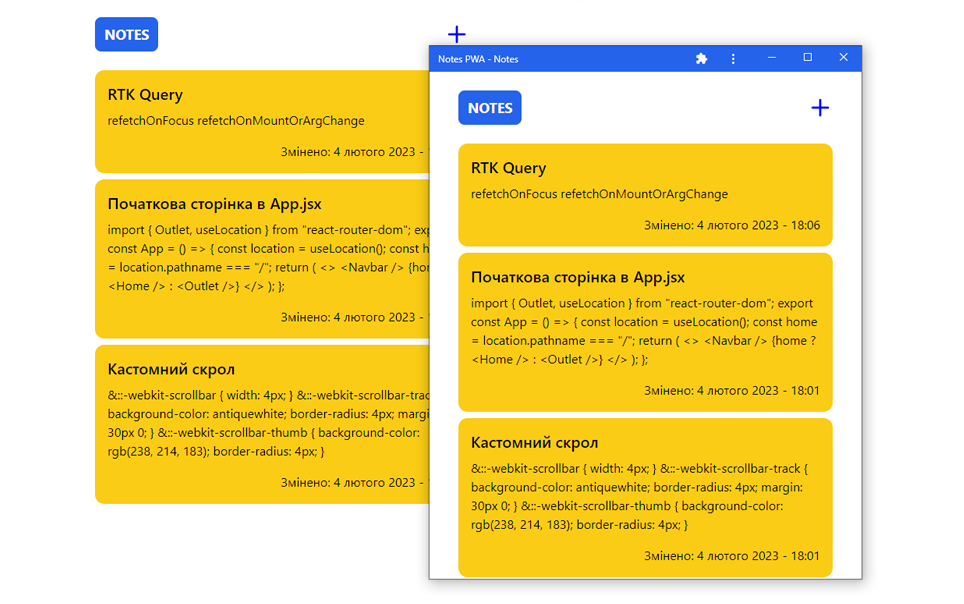
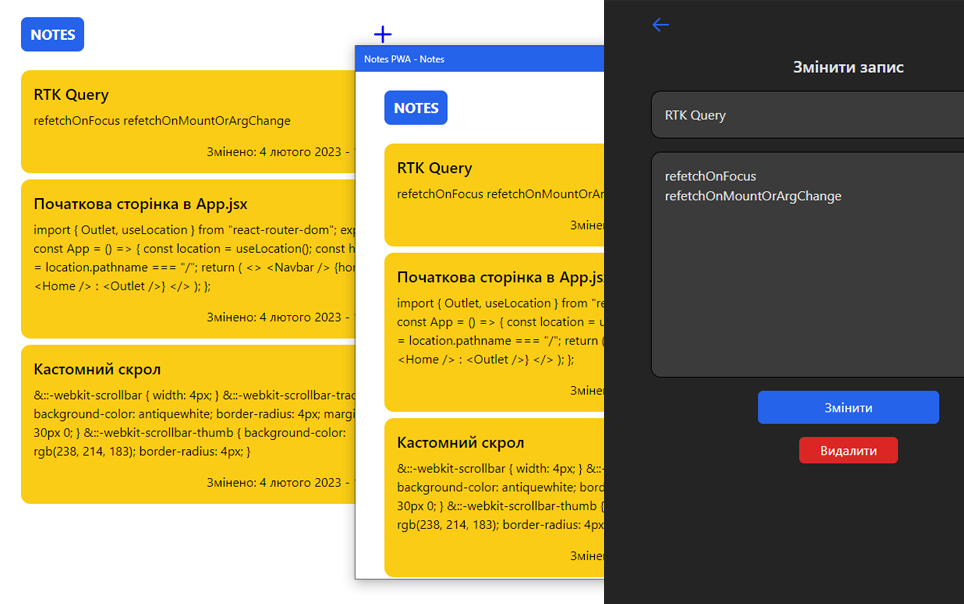
Added description

diff --git a/data.ts b/data.ts
@@ -22,7 +22,7 @@ export const projects = [
     title: "Notes",
     image: "/notes.png",
     description:
-      "Full stack додаток для запису нотаток в базу даних на MERN-стеці: MongoDB, Express, ReactJS, NodeJS. Стор побудований на зв'язці RTK Query + Redux Toolkit. Додаток не має авторизації і метою його розробки було вивчення RTK Query. Також на ньому тестувалося створення PWA-версії. Версія з авторизацією на JSON Web Tokens розміщена на Github та знаходиться в процесі розробки.",
+      "Full stack додаток для запису нотаток в базу даних на MERN-стеці: MongoDB, Express, ReactJS, NodeJS. Стор побудований на зв'язці RTK Query + Redux Toolkit. Адаптований до зміни темної теми в системі. Додаток не має авторизації і метою його розробки було вивчення RTK Query. Також на ньому тестувалося створення PWA-версії. Версія з авторизацією на JSON Web Tokens розміщена на Github та знаходиться в процесі розробки.",
     url: "https://simple-client.vercel.app/",
   },
   {
